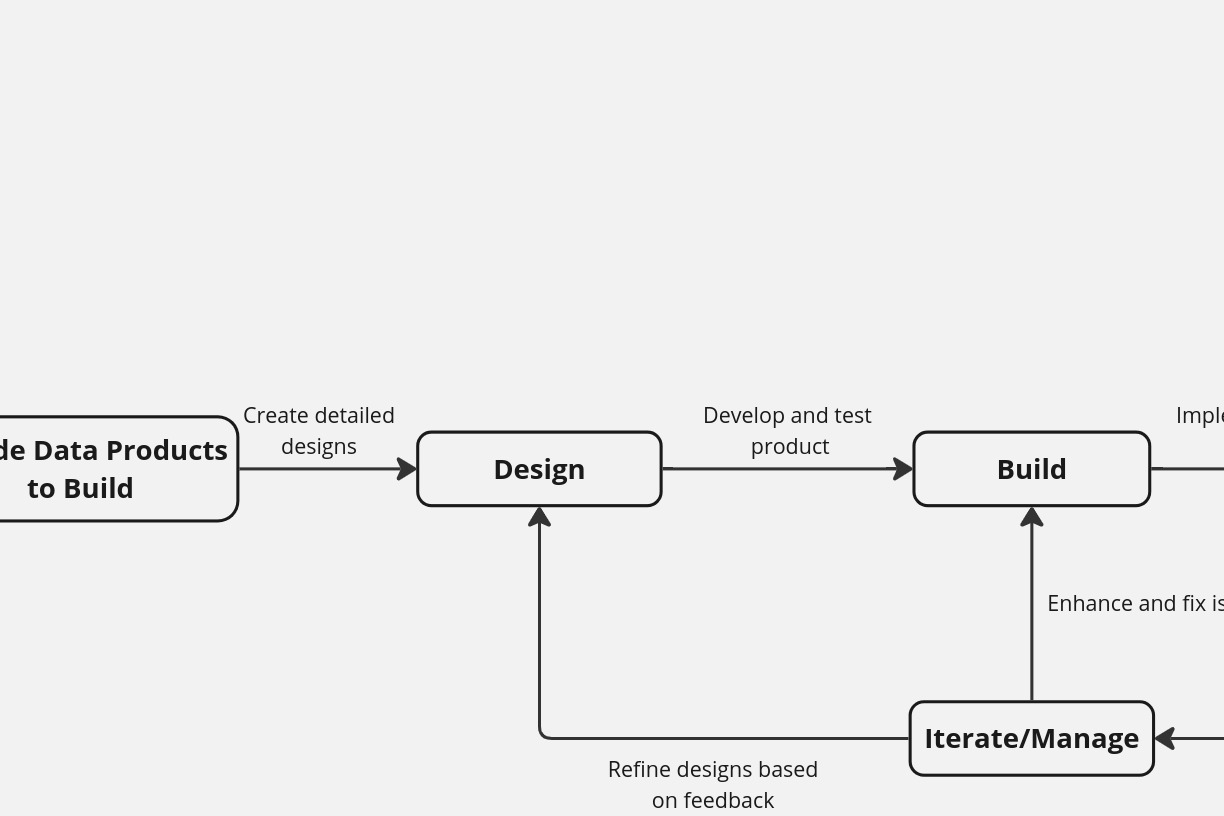
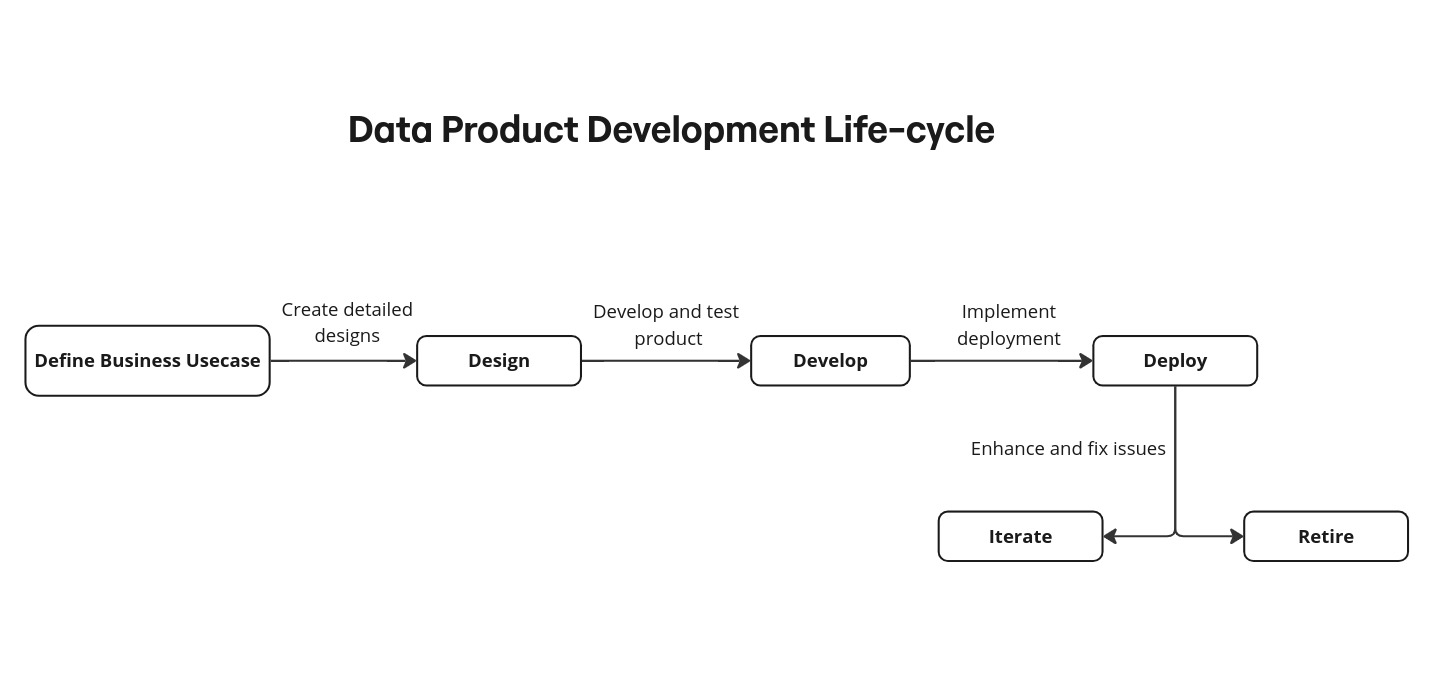
updated Data Product doc

diff --git a/docs/products/data_product/index.md b/docs/products/data_product/index.md
@@ -1,6 +1,10 @@
 # Data Product
 
-## Overview
+!!!info "Overview"
+
+    This documentation is intended to provide structured information essential for understanding the purpose, functionality, and operational aspects of the Data Product. This documentation is crucial for both technical teams and stakeholders to ensure clarity, consistency, and effective management throughout the lifecycle of the Data Product.
+
+## Introduction
 
 A Data Product is a self-contained unit within DataOS designed for handling and sharing analytical data, developed and managed by the dedicated teams. It includes meta data, data transformation code, input and output definitions, discovery and observability, APIs, documentation, service level objectives (SLOs), governance, transformation and platform dependencies such as compute and storage resources. Data Product is reusable, composable, portable and cloud-agnostic.
 
@@ -92,8 +96,7 @@ Data Product Developers designs, builds, and maintains the technical infrastruct
 
 **Data Product Consumer**
 
-Data Product Cosumers utilizes the Data Product to derive insights and make data-driven decisions. They explore output data, generate reports, and leverage visualizations for strategic planning and operational improvements. For Data Product Consumers, divisions encompass business analysts who derive insights, operational managers who optimize processes, executive stakeholders who rely on strategic insights, and data scientists, and data analysts who use advanced analytics and models.
-
+Data Product Cosumers utilizes the Data Product to derive insights and make data-driven decisions. They explore output data, generate reports, and leverage visualizations for strategic planning and operational improvements. For Data Product Consumers, divisions encompass business analysts who derive insights, operational managers who optimize processes, executive stakeholders who rely on strategic insights, and data scientists, and data analysts who use advanced analytics and models. Data consumers utilize the Data Product Hub to explore and obtain data products that align with their business requirements. They can review descriptions of the data products to determine suitability. Through an intuitive interface, data consumers can efficiently access the appropriate data they need.
 
 ## Types of Data Product
 
@@ -101,11 +104,12 @@ Data Products can be categorized based on their design and structure. The main t
 
 ### **Entity First Data Product**
 
-ntity-first Data Products are organized and structured based on the characteristics and origins of the underlying data sources themselves. There is emphasis on ensuring data quality, governance, and compliance with organizational standards and policies. They often aligning closely with the data domains of the organization. At times, they are also referred to as Source-aligned Data Products
+Entity-first Data Products are organized and structured based on the characteristics and origins of the underlying data sources themselves. There is emphasis on ensuring data quality, governance, and compliance with organizational standards and policies. They often aligning closely with the data domains of the organization. At times, they are also referred to as Source-aligned Data Products. Examples include Data Warehouses, which centralize and integrate data across an organization, and Master Data Management Systems, which ensure consistency and accuracy of key data entities like customers or products.
 
 ### **Model First Data Product**
 
-Model-first Data Products are designed and structured primarily around the needs, preferences, and use cases of the end-users or consumers of the data. There is emphasis on understanding the semantics and context in which users will interact with the data.This essentially means modeling the outcome first (prototyping) and then putting the parts together to bring the product vision to life. At times, they are also referred to as Consumer-aligned Data Products.
+Model-first Data Products are designed and structured primarily around the needs, preferences, and use cases of the end-users or consumers of the data. There is emphasis on understanding the semantics and context in which users will interact with the data.This essentially means modeling the outcome first (prototyping) and then putting the parts together to bring the product vision to life. At times, they are also referred to as Consumer-aligned Data Products. Examples include Business Intelligence Dashboards that provide visual analytics for decision-making, Predictive Analytics Models that forecast future trends based on historical data, and Recommendation Systems that suggest items based on user behavior and preferences.
+
 
 ## Data Product Development Lifecycle
 
@@ -114,7 +118,7 @@ The development of the Data Product lifecycle consists of four key phases:
 
 The Design phase of Data Product Lifecycle is pivotal in aligning business objectives with actionable solutions. It begins with a comprehensive understanding of business goals and use cases, forming the basis for developing a robust solution architecture. To know more in detail, please refer to [How to Design a Data Product](/products/data_product/how_to_guides/design/).
 
-### **Build**
+### **Develop**
 
 The Build phase involves coding, configurations, and integrations to build data pipelines, application logic, and interfaces according to the solution architecture. Rigorous testing ensures functionality, performance, and reliability, with ongoing stakeholder collaboration to validate that the built product aligns with business objectives and technical specifications. To know more in detail, please refer to [How to Build a Data Product](/products/data_product/how_to_guides/build/).
 
@@ -125,7 +129,7 @@ The Deploy phase of Data Product lifecycle emphasis on making Data Products avai
 The Iterate phase in the Data Product Lifecycle focuses on continuous improvement and refinement based on feedback, usage patterns, and evolving business needs. It involves analyzing user interactions, performance metrics, and gathering stakeholder feedback to identify areas for enhancement or adjustment. To know more in detail, please refer to [How to Iterate the Data Product](/products/data_product/how_to_guides/manage_and_iterate/).
 
 
-<img src="/products/data_product/diagram.jpg" alt="Description" width="1500">
+<img src="/products/data_product/Untitled.jpg" alt="Description" width="1500">
 
 ## Structure of Data Product Manifest
 
